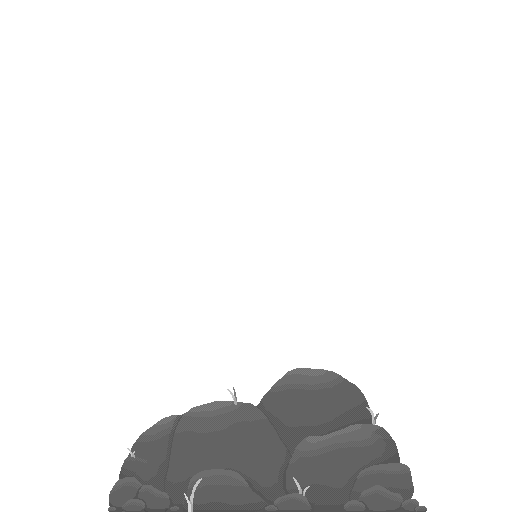
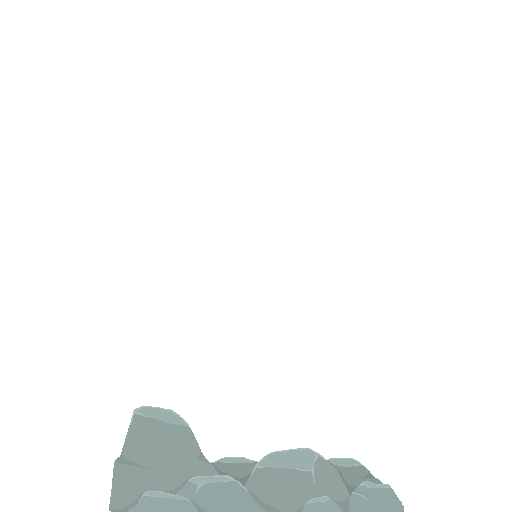
Added DayNight Popup Text
- Changed woodpile and stonepile to new textures
- Day/Night cycle is 4 minutes (2 min day, 2 min night)

Changed region(s): [[0.1875, 0.7188, 0.8438, 1.0]]

diff --git a/RoyalRodents/Assets/Scripts/DayNightTextFade.cs b/RoyalRodents/Assets/Scripts/DayNightTextFade.cs
@@ -1,0 +1,72 @@
+using System.Collections;
+using System.Collections.Generic;
+using TMPro;
+using UnityEngine;
+
+public class DayNightTextFade : MonoBehaviour
+{
+    public TextMeshProUGUI text;
+    public Cycle2DDN dayNightScript;
+
+    private void Start()
+    {
+        if (text)
+        {
+            text.color = new Color(1, 1, 1, 0);
+            StartCoroutine(TriggerDisplay());
+        }
+        else
+            Debug.LogError("DayNightPopupText not connected");
+    }
+
+    private void Update()
+    {
+        if (dayNightScript && text)
+        {
+            double fraction = dayNightScript.getCycleFraction();
+            if (fraction == 0.75)
+            {
+                text.text = "Start of Day " + dayNightScript.getDayCount();
+                StartCoroutine(TriggerDisplay());
+            }
+            else if (fraction == 0.25)
+            {
+                text.text = "Start of Night " + dayNightScript.getDayCount();
+                StartCoroutine(TriggerDisplay());
+            }
+        }
+    }
+
+    IEnumerator TriggerDisplay()
+    {
+        StartCoroutine(FadeImage(false));
+        yield return new WaitForSeconds(5);
+        StartCoroutine(FadeImage(true));
+    }
+
+    IEnumerator FadeImage(bool fadeAway)
+    {
+        // fade from opaque to transparent
+        if (fadeAway)
+        {
+            // loop over 1 second backwards
+            for (float i = 1; i >= 0; i -= Time.deltaTime)
+            {
+                // set color with i as alpha
+                text.color = new Color(1, 1, 1, i);
+                yield return null;
+            }
+        }
+        // fade from transparent to opaque
+        else
+        {
+            // loop over 1 second
+            for (float i = 0; i <= 1; i += Time.deltaTime)
+            {
+                // set color with i as alpha
+                text.color = new Color(1, 1, 1, i);
+                yield return null;
+            }
+        }
+    }
+}

diff --git a/RoyalRodents/Assets/Resources/DayNight/2DDN/Script/Cycle2DDN.cs b/RoyalRodents/Assets/Resources/DayNight/2DDN/Script/Cycle2DDN.cs
@@ -81,6 +81,8 @@ public class Cycle2DDN : MonoBehaviour {
 	Image screenDark;
 	Color scrnColor, scrnDay, scrnDusk, scrnNight, scrnDawn;
 
+	public int day_count;
+
 	// Use this for initialization
 	void Start () {
 		// Sets the main DayNight handler.
@@ -92,6 +94,8 @@ public class Cycle2DDN : MonoBehaviour {
 
 		// Sets the proper cycle duration for each of the 4 phases
 		cycleUpdate = cycleTime / 4;
+
+		day_count = 1;
 
 		// Creates new lists to store all the renderer variables.
 		AnimatedSprites = new List<SpriteRenderer> ();
@@ -121,9 +125,16 @@ public class Cycle2DDN : MonoBehaviour {
 		InvokeRepeating ("UpdateStatic", cycleStartDelay, staticUpdateFreq);
 	}
 
+	//Used for Sun/Moon Rotation
 	public double getCycleFraction()
 	{
 		return (cycle + t) / 4.0;
+	}
+
+	//Get Day Count
+	public int getDayCount()
+	{
+		return day_count;
 	}
 
 	/// <summary>
@@ -180,6 +191,8 @@ public class Cycle2DDN : MonoBehaviour {
 
 			if (cycle < 3) {
 				cycle++;
+				if (cycle == 3)
+					day_count++;
 			} else {
 				cycle = 0;
 			}
